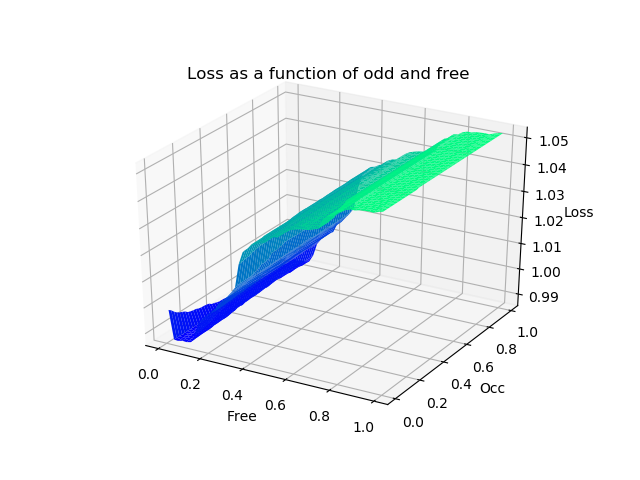
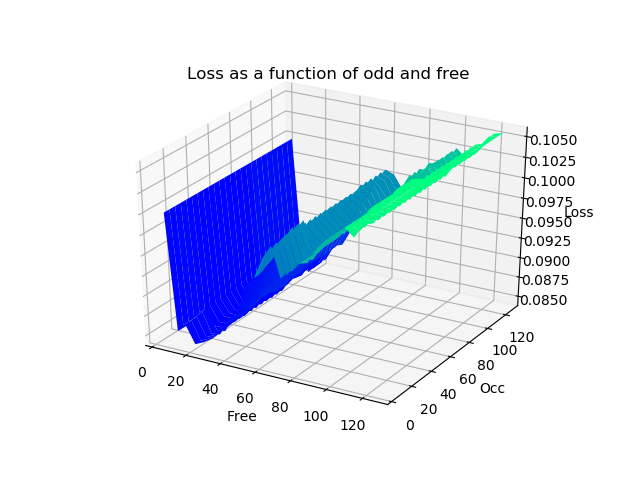
Useless file deleted

diff --git a/SLAM/Simulate.py b/SLAM/Simulate.py
@@ -121,12 +121,13 @@ tours_number = args.tours_number
 norm_scale = 0.01 #Map Scaling variable
 FPT = 1 #How many times the map will be update before plotted
 logloss = [] #Logloss list for plotting
-print(tours_number)
+
 
 
 #Initialize and get base info from LiSim
 try:
-    lidar = sim.Lidar(dim=dim,pos=pos)
+    lidar = sim.Lidar(dim=dim,pos=pos, uDist=3)
+    print("Hey")
 except:
     lidar = sim.Lidar()
 
@@ -150,36 +151,37 @@ for tours_count in range(1,tours_number+1):
     # Simulate measurement
     simMeasure = lidar.simulate(points=measure_points,show=False,noise=isNoisy)
     #Update carte
-    carte = map.processLidarData(simMeasure, carte, lidar.pos, lidar.dim)
+    carte = map.processLidarData(simMeasure, carte, lidar.pos, lidar.dim, logodd_occ = 80 ,logodd_free = 20)
     if animate:
         #Convert carte in 0-1 format
         scaled_carte = expit(carte*norm_scale)
         #Animate
         plot.animate(scaled_carte,lidar.pos,"Produced Carte")
-        if cv2.waitKey(1) & 0xFF == ord('q'):
-            break
+        if cv2.waitKey(1) & 0xFF == ord('q'): break
         #Generate confusion matrix and logloss
-        confusion = prc.genConfusionMatrix(scaled_carte, true_carte, lidar.pos, relativeLoss)
-        logloss.append(prc.loss(confusion,lidar.dim))
+        confusion = prc.genConfusionMatrix(scaled_carte, true_carte, lidar.pos)
+        logloss.append(prc.smart_loss(lidar, confusion,False))
     else:
         scaled_carte = expit(carte*norm_scale)
         break
 
 cv2.destroyAllWindows()
 animation_time = time.time()-start # Measure running time
-#print("FPS:", tours_count/animation_time)
+if animate==True: print("FPS:", tours_count/animation_time)
+if animate==True: print("Loss:",logloss[-1])
 print("Nombre de tours:",tours_count)
-print("Confidence Score",perf.confidence(scaled_carte))
+print("Confidence Score:",perf.confidence(scaled_carte))
+
 #Plot the data
 if graphs == True:
-    confusion = prc.genConfusionMatrix(scaled_carte, true_carte,lidar.pos,relativeLoss)
+    confusion = prc.genConfusionMatrix(scaled_carte, true_carte,lidar.pos)
     plot.plotData(confusion,"Confusion-Matrix",lidar.pos)
     plot.plotData(true_carte,"Real-Map",lidar.pos)
     plot.plotData(scaled_carte,"Produced-Map",lidar.pos)
     if animate == True:
-        plot.plot_loss(logloss,tours_count-1)
+        plot.plot_loss(logloss,tours_count)
     else:
-        print("Loss",prc.loss(confusion,lidar.dim))
+        print("Loss",prc.smart_loss(lidar, confusion,False))
     plt.show()
 
 if stats == True:

diff --git a/SLAM/PointsGeneration.py b/SLAM/PointsGeneration.py
@@ -13,21 +13,23 @@ from LiMap.map_utils import map
 from LiMap.user_utils import plot
 import argparse
 
-dim = [50,50]
-pos= [0,0]
+points = [25,25]
 
-lidar = sim.Lidar(dim=dim, pos=pos)
+
+lidar = sim.Lidar(dim=[40,40], pos=[20,20])
 true_carte = lidar.carte
 carte = lidar.initialCarte
-data=np.zeros((dim[0]*dim[1],3))
+data=np.zeros((points[0]*points[1],3))
+free_start = 5
+occ_start = 5
+step = 5
 
-
-for j in range(0,dim[0]):
-    occ = 0.01+j*0.02
+for j in range(0,points[0]):
+    occ = occ_start + j*step
     if j%2 == 0:
-        print("I hate myself {}/{}".format(j/2,dim[0]/2))
-    for i in range(0,dim[1]):
-        free = 0.01+0.02*i
+        print("Remaining {}/{}".format(j/2,points[0]/2))
+    for i in range(0,points[1]):
+        free = free_start + step*i
         for tours_count in range(1,11):
             #Generate the data points where the measurements must be made
             measure_points =np.array(gen.measure_turn(lidar.pos, 1))
@@ -35,11 +37,13 @@ for j in range(0,dim[0]):
             simMeasure = lidar.simulate(points=measure_points,show=False,noise=True)
             #Update carte
             carte = map.processLidarData(simMeasure, carte, lidar.pos, lidar.dim,occ,free)
-            scaled_carte = expit(carte)
-            confusion = prc.genConfusionMatrix(scaled_carte, true_carte,lidar.pos,False)
-            loss = prc.loss(confusion,lidar.dim)
-        data[dim[0]*j+i][:]=[occ,free,loss]
-        if i % 10 ==0:
-            print("You suck")
+
+        scaled_carte = expit(carte)
+        confusion = prc.genConfusionMatrix(scaled_carte, true_carte,lidar.pos,False)
+        loss = prc.smart_loss(lidar, confusion,False)
+        data[points[0]*j+i][:]=[occ,free,loss]
+
+plot.plotData(true_carte,"Real-Map",lidar.pos,show=True)
 
 np.savetxt('Analysis/Loss_Points.txt', data, delimiter=',')
+np.savetxt('Analysis/Gradient_Descent/Loss_Points.txt', data, delimiter=',')

diff --git a/SLAM/Analysis/Gradient_Descent/Gd.py b/SLAM/Analysis/Gradient_Descent/Gd.py
@@ -1,0 +1,33 @@
+import numpy as np
+import Gradient as math
+import random
+
+data = np.loadtxt("Loss_Points.txt", delimiter=",")
+shape = (25,25)
+
+x = np.reshape(data[:,0], shape)
+y = np.reshape(data[:,1], shape)
+z = np.reshape(data[:,2], shape)
+z[0][:] = 0.1
+z[:,0] = 0.1
+dmin_coord = np.zeros(2)
+min_coord = np.array([random.randint(0,shape[0]-2),random.randint(0,shape[0]-2)])
+gamma = 0.1
+alpha = 0.1
+print("Start Cords:",min_coord)
+for i in range(200):
+    dmin_coord = alpha*dmin_coord - gamma * math.gradient(min_coord[0],min_coord[1],z)
+    min_coord =  min_coord + dmin_coord
+    min_coord = min_coord.astype(int)
+    '''
+    if i%10 == 0:
+        print("Gradient:",math.gradient(min_coord[0],min_coord[1],z))
+        print("Coords:", min_coord)
+    '''
+
+print("Final Coords:", min_coord)
+print("X value",x[min_coord[0]][0])
+print("Y value",y[min_coord[1]][0])
+
+print("Min Loss:",z[min_coord[0]][min_coord[1]])
+print("Real min loss:", np.unravel_index(np.argmin(z, axis=None), z.shape))

diff --git a/SLAM/Analysis/graphGen.py b/SLAM/Analysis/graphGen.py
@@ -5,24 +5,24 @@ from mpl_toolkits.mplot3d import Axes3D
 
 data = np.loadtxt("Loss_Points.txt", delimiter=",")
 
-x = np.reshape(data[:,0], (50, 50))
-y = np.reshape(data[:,1], (50, 50))
-z = np.reshape(data[:,2], (50, 50))
+shape = (25,25)
+
+
+x = np.reshape(data[:,0], shape)
+y = np.reshape(data[:,1], shape)
+z = np.reshape(data[:,2], shape)
+z[0][:] = 0.1
 fig = plt.figure()
 ax = fig.add_subplot(111, projection='3d')
 
 ax = plt.axes(projection='3d')
-ax.plot_surface(x, y, z, rstride=1, cstride=1,
+ax.plot_surface(x, y, z, rstride=5, cstride=1,
                 cmap='winter', edgecolor='none')
 ax.set_title('Loss as a function of odd and free');
 ax.set_xlabel('Free')
 ax.set_ylabel("Occ")
 ax.set_zlabel("Loss")
 plt.savefig('Loss_Graph.png')
-for angle in range(0, 360):
-    ax.view_init(30, angle)
-    plt.draw()
-    plt.pause(.001)
 
 
 plt.show()

diff --git a/SLAM/LiSim/simResultProcess.py b/SLAM/LiSim/simResultProcess.py
@@ -4,7 +4,7 @@ import math
 from scipy.special import expit
 
 def genConfusionMatrix(obs, true, pos, rl=False):
-    conf = 4*np.square(obs-true)
+    conf = np.square(obs-true)
     if rl==False:
         return conf
     else:
@@ -20,3 +20,19 @@ def genConfusionMatrix(obs, true, pos, rl=False):
 
 def loss(conf,dim):
     return (np.sum(conf)/(dim[0]*dim[1]))
+
+def weightor(x,rho):
+    return rho + (1-2*rho)*x
+
+def smart_loss(lidar, conf, real_world = True):
+    '''Scalar value ranging from 0 to 1'''
+    alpha = 1
+    beta = 1
+    kappa = 1
+    rho = np.sum(lidar.carte) / lidar.carte.size
+    if real_world:
+        weights = beta * np.exp(alpha * lidar.carte)
+    else:
+         weights = weightor(rho,lidar.carte)
+
+    return kappa *  np.sum(np.multiply(conf, weights)) / np.sum(weights)

diff --git a/SLAM/LiSim/sim.py b/SLAM/LiSim/sim.py
@@ -24,6 +24,13 @@ class Lidar:
         self.carte[dim[1]-1][:] = 1
         self.carte[:,dim[1]-1] = 1
 
+        for i in range(15,25):
+            self.carte[11][i] = 1
+
+        for i in range(16,20):
+            self.carte[i][i]=1
+
+
         #Create the reference initial working map for LiMap
         self.initialCarte = np.zeros(dim)
 

diff --git a/SLAM/Analysis/Gradient_Descent/Gradient.py b/SLAM/Analysis/Gradient_Descent/Gradient.py
@@ -1,0 +1,12 @@
+import numpy as np
+
+def gradient(x,y,z):
+    h=1
+    try:
+        dx_value = (z[x+h][y] - z[x][y])/h
+        dy_value = (z[x][y+h] - z[x][y])/h
+    except:
+        dx_value = 0
+        dy_value = 0
+        
+    return np.array([dx_value, dy_value])
